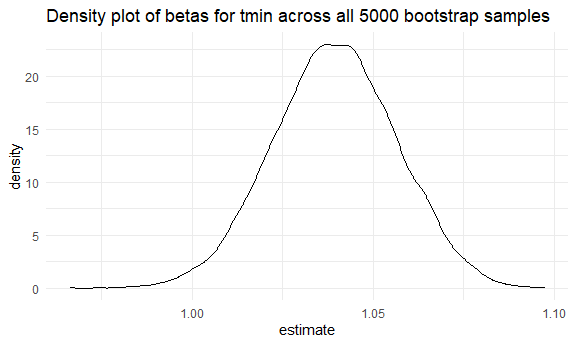
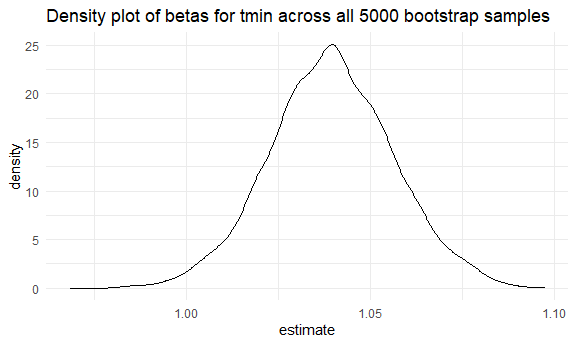
finishing homework, small changes

diff --git a/p8105_hw6_smv2138.md b/p8105_hw6_smv2138.md
@@ -6,14 +6,14 @@ Sushupta Vijapur (smv2138)
 library(tidyverse)
 ```
 
-    ## -- Attaching packages --------------------------------------------------------- tidyverse 1.3.0 --
+    ## -- Attaching packages -------------------------------------------------------------------------------------- tidyverse 1.3.0 --
 
     ## v ggplot2 3.3.2     v purrr   0.3.4
     ## v tibble  3.0.3     v dplyr   1.0.2
     ## v tidyr   1.1.2     v stringr 1.4.0
     ## v readr   1.3.1     v forcats 0.5.0
 
-    ## -- Conflicts ------------------------------------------------------------ tidyverse_conflicts() --
+    ## -- Conflicts ----------------------------------------------------------------------------------------- tidyverse_conflicts() --
     ## x dplyr::filter() masks stats::filter()
     ## x dplyr::lag()    masks stats::lag()
 
@@ -137,10 +137,6 @@ model_results_df %>%
 
 ## Problem 2
 
-compare 3 models using CV build a model (open ended) start with checking
-for cross validation Porbably want to do some work with factor variables
-Find some residuals
-
 #### Part 1 - Loading data and cleaning data
 
 Load and clean the data for regression analysis (i.e. convert numeric to
@@ -211,11 +207,11 @@ baby_df %>%
 
 Based on the above graphs, we can see that no mother in this dataset had
 a previous number of low birth weight babies. Therefore, we will drop
-this variable from furher analysis. They other 3 variables appear to
+this variable from further analysis. They other 3 variables appear to
 have a linear relationship with the outcome of birthweight, therefore,
 we will move forward with analyzing these.
 
-Fit the model and show a plot of model residuals against fitted values
+Fit the individual models
 
 ``` r
 ## Pre-pregnancy BMI model
@@ -257,7 +253,7 @@ After fitting all three of these models, we can see that they all have
 significant p-values. We can assume from this that they are all related
 to birthweight in some way. However, since mother’s pre-pregnancy
 birthweight and pre-pregnancy BMI are most likely highly correlated with
-eachother, and largely provide the same information, we will choose to
+each other, and largely provide the same information, we will choose to
 move forward with just mother’s pre-pregnancy weight. We will fit a
 final model with mother’s pre-pregnancy weight and weight gain during
 the pregnancy as predictors to see if mother’s weight have an influence
@@ -285,10 +281,11 @@ baby_df %>%
 <img src="p8105_hw6_smv2138_files/figure-gfm/unnamed-chunk-10-2.png" width="90%" />
 Based on the plot of residuals versus predicted values, we can see that
 the linearity assumption is still valid and there are no concerning
-outliers or unequal variances. Based on the density plot of the
-residuals, we can see they are relatively normally distributed and have
-a center of near 0 residuals. Therefore, we can assume that the model is
-fit well and our assumptions are valid.
+outliers or unequal variances. Furthermore, the graph was centered
+around 0 and appear evenly spread out as well. Based on the density plot
+of the residuals, we can see they are relatively normally distributed
+and have a center of near 0 residuals. Therefore, we can assume that the
+model is fit well and our assumptions are valid.
 
 #### Part 3 - Running models asked to examine
 
@@ -417,9 +414,9 @@ cv_df %>%
 
 | model  | avg\_rmse |
 | :----- | --------: |
-| inter  |  287.3279 |
-| lg\_ga |  330.1187 |
-| mom    |  483.4706 |
+| inter  |  288.7846 |
+| lg\_ga |  332.5432 |
+| mom    |  483.6978 |
 
 Based on these violin plots and the calculated average root mean squared
 error, it is clear that the model fitting the interaction between head
@@ -430,9 +427,7 @@ had the highest root mean squared error.
 
 ## Problem 3
 
-use bootstrap to get distribution of parameters you’re interested in fit
-linear model of max emp against min temp r sq value and another random
-param () \#\#\#\# Part 1 - Load 2017 Central Park Weather Data
+#### Part 1 - Load 2017 Central Park Weather Data
 
 ``` r
 weather_df = 
@@ -539,9 +534,10 @@ final_df %>%
 
 <img src="p8105_hw6_smv2138_files/figure-gfm/unnamed-chunk-19-3.png" width="90%" />
 The three plots above show the distribution of b1 (tmin), r-squared and
-log(β<sup>0∗β</sup>1) values across all 5000 bootstrap resamples. All
-three graphs appear to have a normal distribution of values across all
-samples.
+log(β<sup>0∗β</sup>1) values across all 5000 bootstrap resamples. The
+density plot for the r squared was centered around 0.91. The density
+plot for the log(β<sup>0∗β</sup>1) values was centered around 2.02.
+These plots appear to be bell shaped however slightly left skewed.
 
 #### Part 4 - Identify the 2.5% and 97.5% quantiles to provide a 95% confidence interval for r^2 and log(β<sup>0∗β</sup>1)
 
@@ -562,7 +558,7 @@ final_df %>%
 
 | term | rsq\_ci\_lower | rsq\_ci\_upper | logb\_ci\_lower | logb\_ci\_upper |
 | :--- | -------------: | -------------: | --------------: | --------------: |
-| tmin |      0.8946338 |      0.9275421 |        1.964767 |        2.059658 |
+| tmin |      0.8939268 |      0.9274707 |        1.966397 |        2.058816 |
 
 The 95% CI based on 5000 bootstrap resampling for the r squared values
 is 0.8935 to 0.9270. The 95% CI based on 5000 bootstrap resampling for
